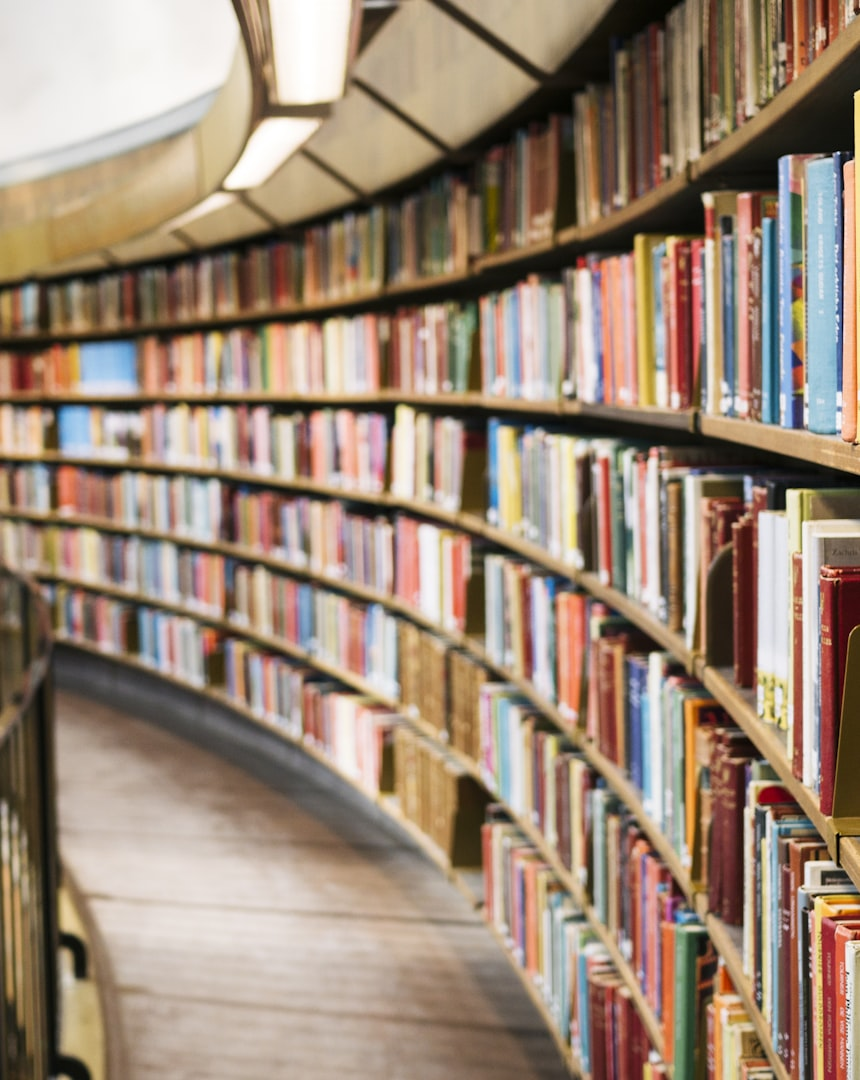
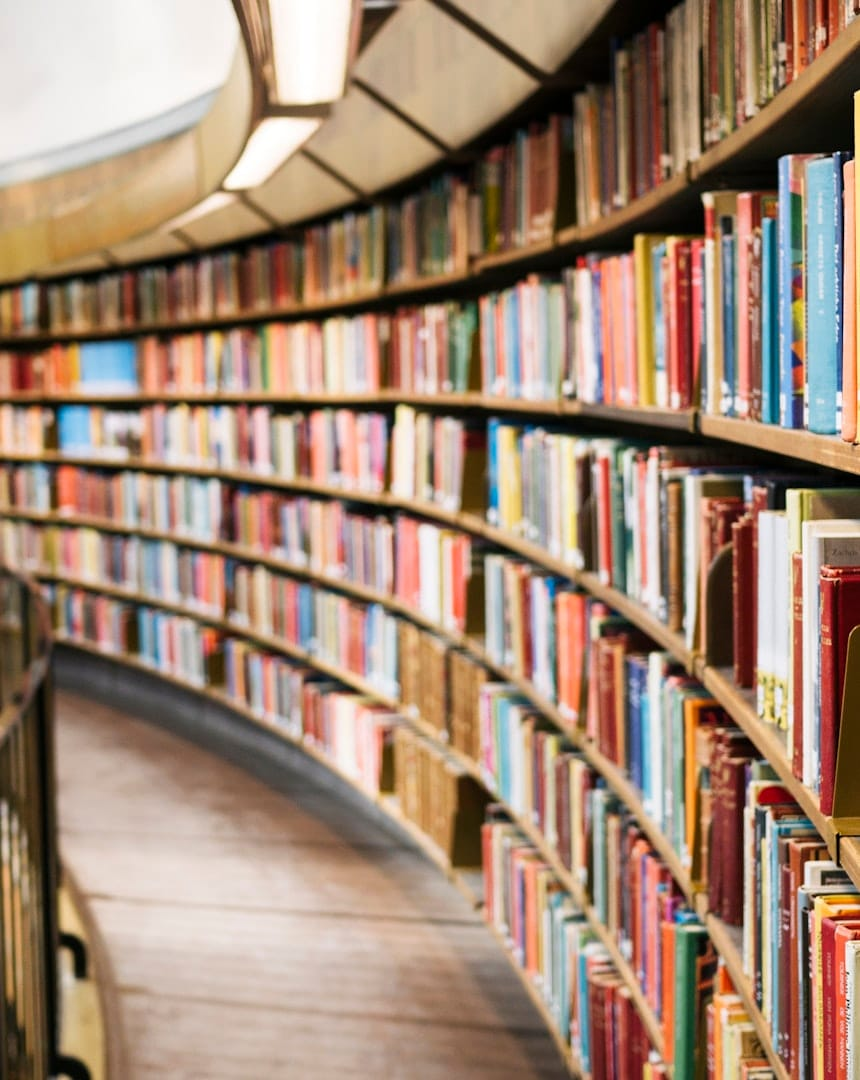
Compress the local images, which every page was paying for in full
The Cloudinary loader deliberately passes local assets through untouched
so the logo can never 402 - but that also means nothing ever resized or
re-encoded them, and they were shipped at their source dimensions on
every request.

The two logos were the worst of it. The header wordmark was a 900x279
PNG weighing 125KB, displayed at 40-56px tall; the footer lockup was
1200x427 and 218KB, displayed at 64-80px. Together that is roughly 350KB
of logo on every page load, against a stated target of LCP under 2.5s on
3G with three quarters of visitors on phones.

Each is now resized to three times its largest CSS size - still sharp on
any phone DPR - and re-encoded as a quantised PNG. The lettering, the
quill's teal gradient and the small-caps subtitle were all checked by eye
afterwards; nothing visible changed.

  logo-wordmark  125KB -> 18KB   (900x279 -> 542x168)
  logo-full      218KB -> 27KB   (1200x427 -> 674x240)
  logo           91KB  -> 27KB   (512 square kept - schema.org logo)
  icon-512       91KB  -> 27KB   (512 square kept - PWA icon)
  hero-books     153KB -> 114KB  (dimensions kept, mozjpeg)
  total          678KB -> 213KB

Book covers were already fine: the loader applies f_auto,q_auto,w_,c_limit
and a real cover comes to 46KB. The crawler's 'images over 100kB' finding
was these five local files, not the catalogue.

The width/height props follow the new intrinsic sizes. They only set the
aspect ratio here, which is unchanged, but leaving them stale would
[…]

diff --git a/frontend/src/components/layout/Footer.tsx b/frontend/src/components/layout/Footer.tsx
@@ -52,8 +52,8 @@ export function Footer() {
           <Image
             src="/logo-full.png"
             alt="Books Temple Nepal, online bookstore"
-            width={1200}
-            height={427}
+            width={674}
+            height={240}
             className="h-16 w-auto sm:h-20"
           />
           {/* Keep this number honest and rounded down. It was "over 2,000" long

diff --git a/frontend/src/components/layout/Header.tsx b/frontend/src/components/layout/Header.tsx
@@ -63,8 +63,8 @@ export function Header({ genres = [] }: { genres?: Genre[] }) {
           <Image
             src="/logo-wordmark.png"
             alt="Books Temple Nepal"
-            width={900}
-            height={278}
+            width={542}
+            height={168}
             priority
             className="h-10 w-auto sm:h-14"
           />
